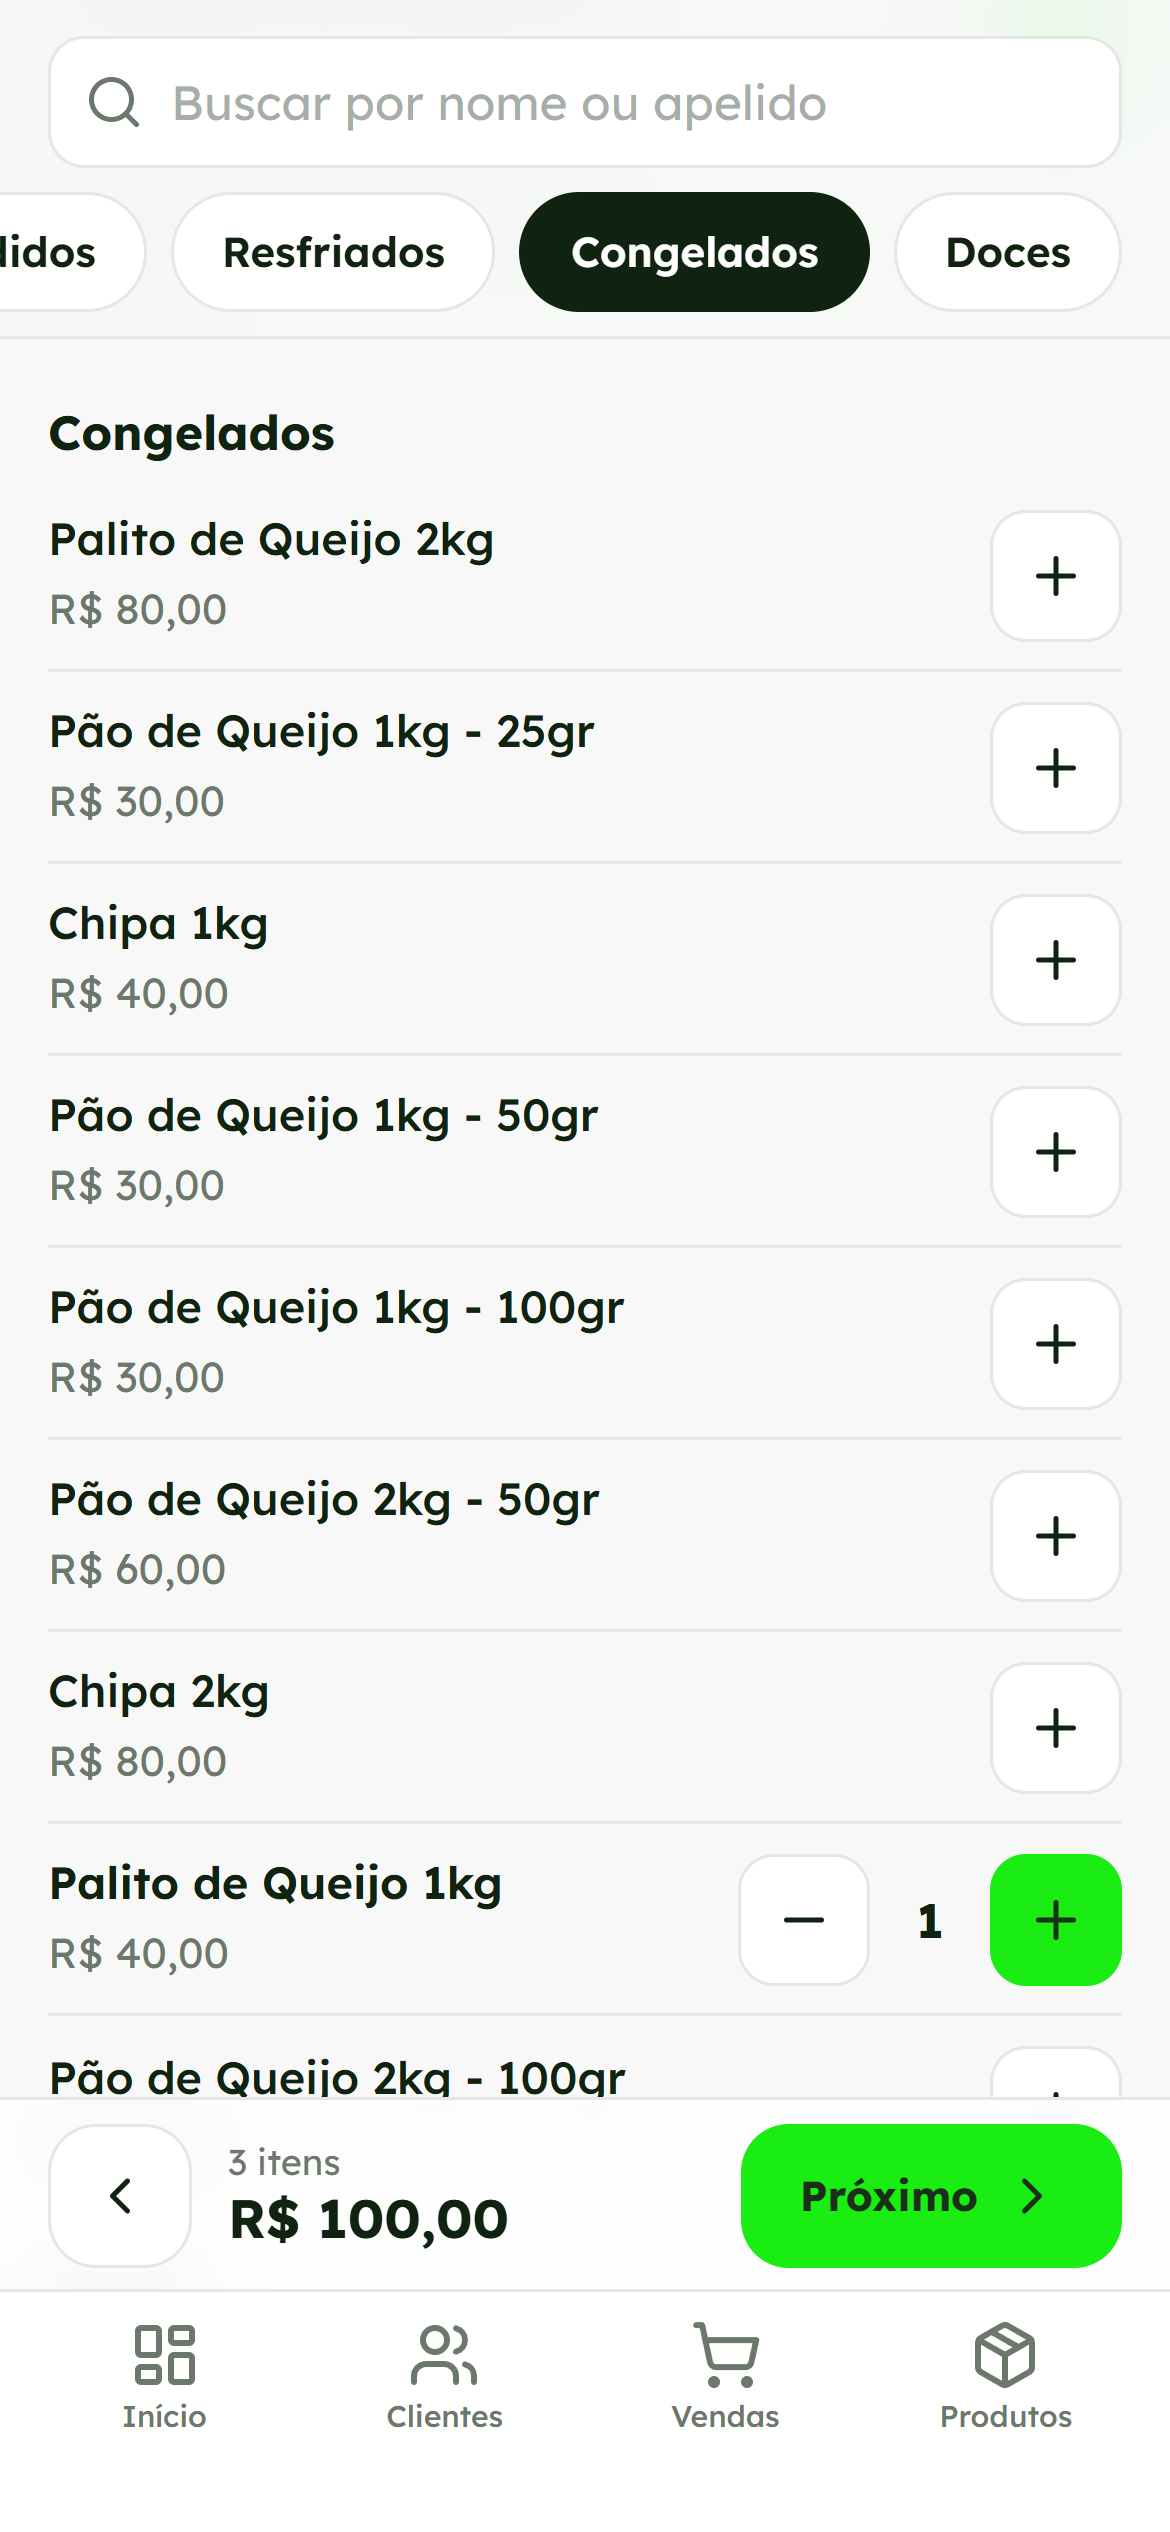
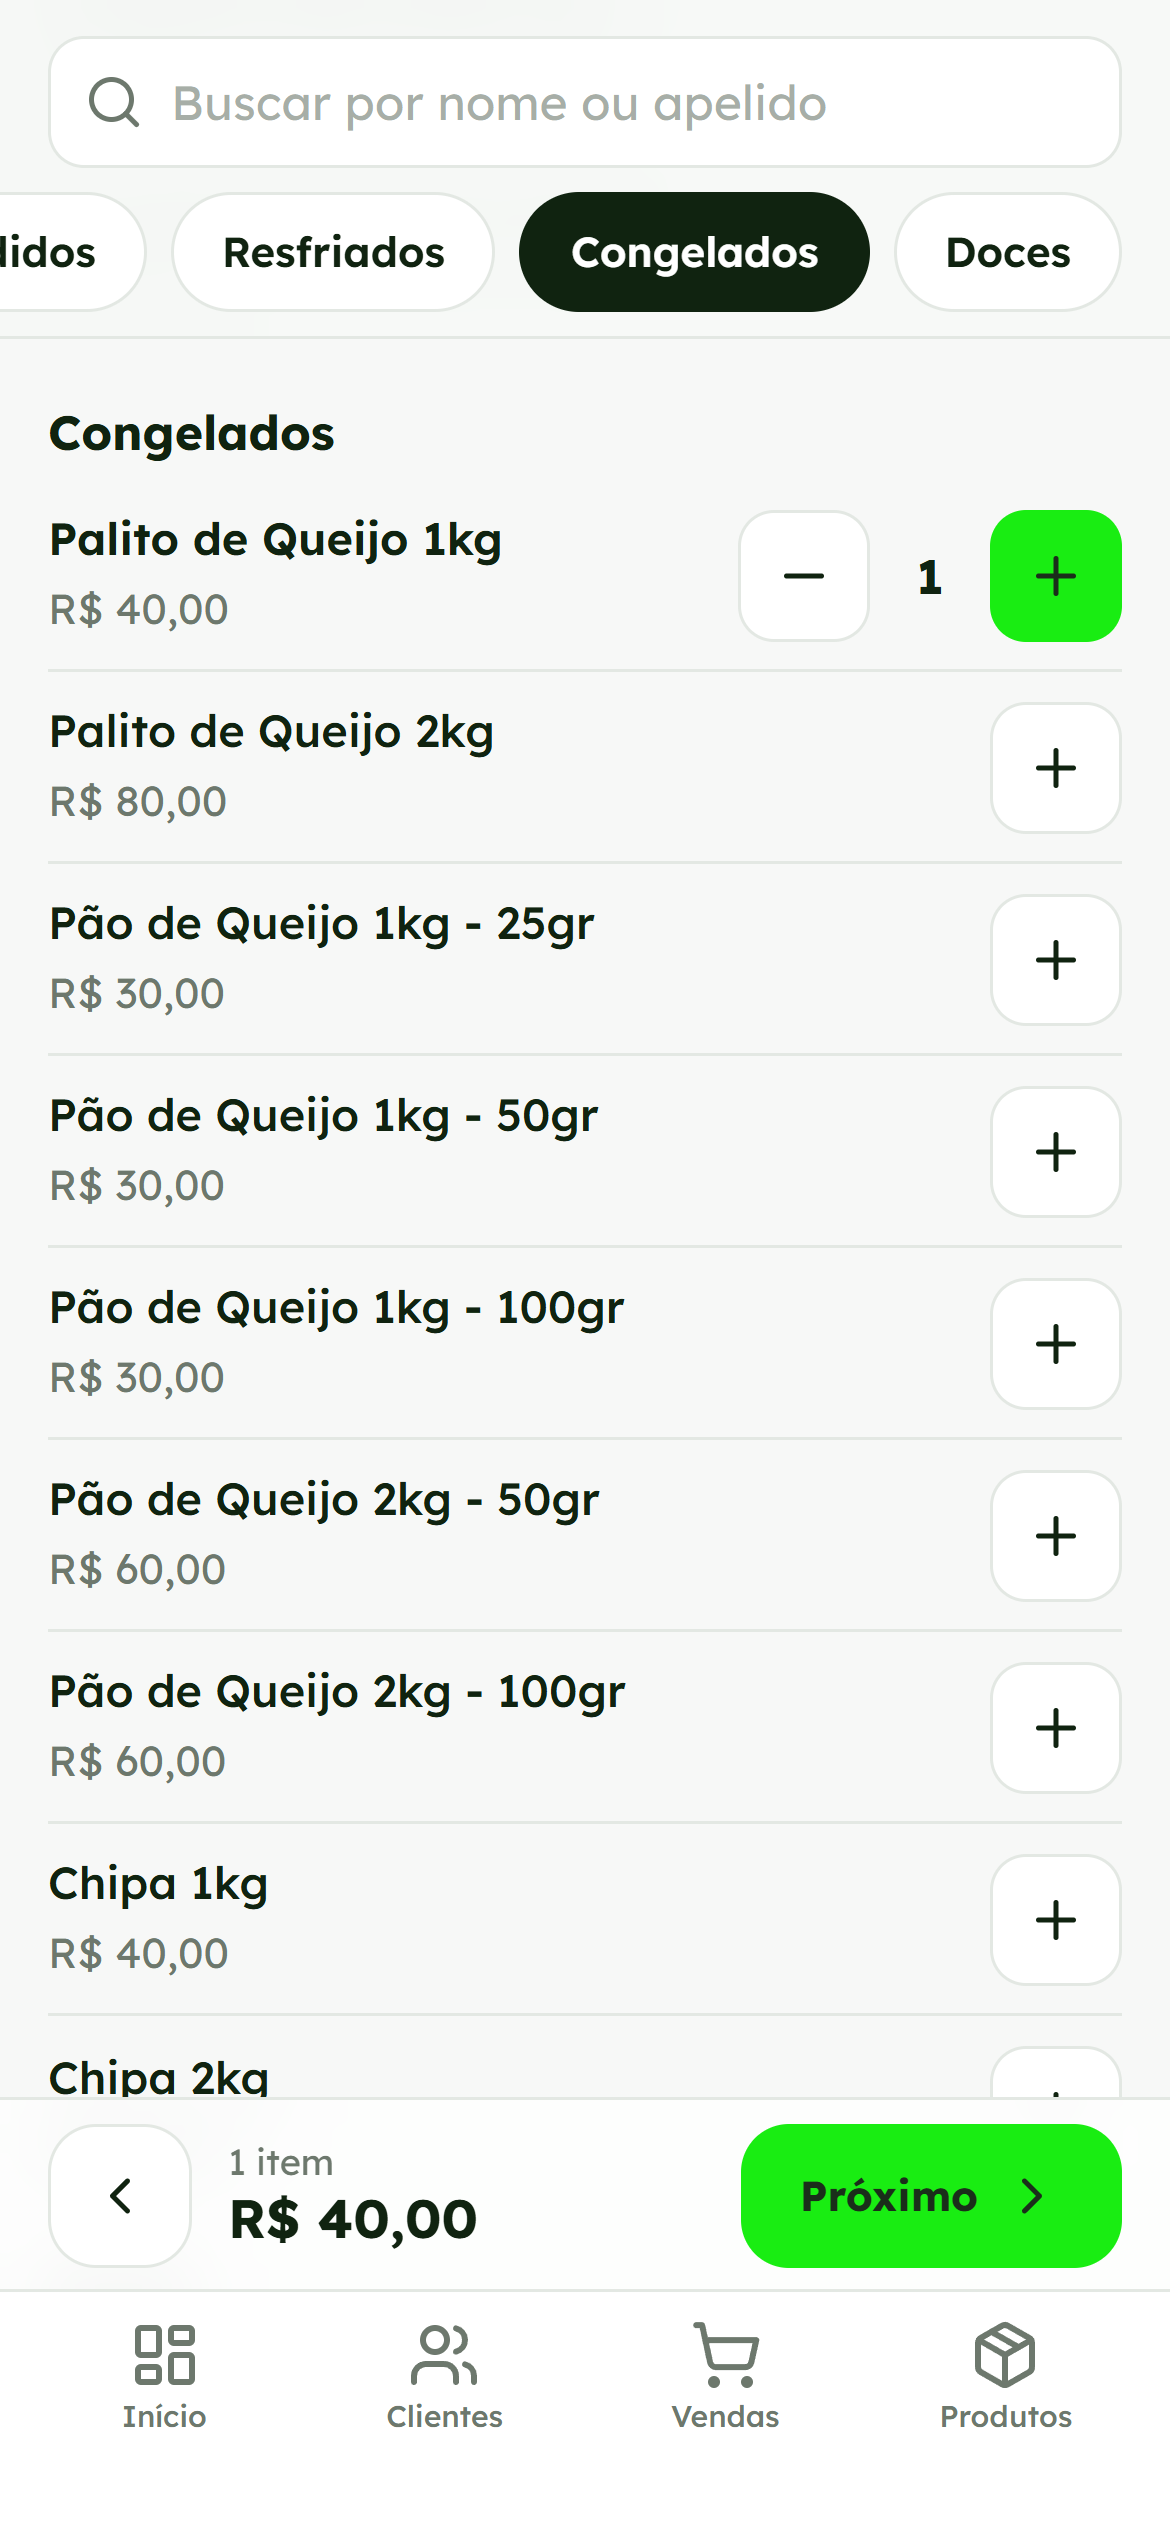
fix(interno): sem aviso "Item removido" no celular + Congelados por produto e tamanho
- Lista do celular: zerar um item no "−" não mostra mais o aviso (a linha
  volta a mostrar só o "+"). Computador segue igual.
- Migration 20261103112736 (backup dump-*-20261103-082422 antes): ordem de
  Congelados na tela Catálogo (e na loja) = Palito 1kg, 2kg; Pão de Queijo
  1kg 25/50/100gr, 2kg 50/100gr; Chipa 1kg, 2kg. Antes havia empates.
- Print de Congelados atualizado.

diff --git a/apps/interno/src/pages/NovaVenda.tsx b/apps/interno/src/pages/NovaVenda.tsx
@@ -230,14 +230,15 @@ export function NovaVenda() {
         setMontando(null)
     }
 
-    const handleUpdateQuantity = (chave: string, delta: number) => {
+    // `avisar: false` = lista do celular (a linha volta a mostrar só o "+").
+    const handleUpdateQuantity = (chave: string, delta: number, { avisar = true }: { avisar?: boolean } = {}) => {
         const item = cart.find((i) => i.chave === chave)
         if (!item) return
 
         const newQty = item.quantidade + delta
         if (newQty <= 0) {
             removeItem(chave)
-            toast.success('Item removido')
+            if (avisar) toast.success('Item removido')
         } else {
             updateQuantity(chave, newQty)
         }
@@ -402,7 +403,7 @@ export function NovaVenda() {
                                         maisVendidos={maisVendidos}
                                         getQuantity={getCartQuantity}
                                         onAdd={(p) => handleAddToCart(p, { avisar: false })}
-                                        onUpdateQuantity={handleUpdateQuantity}
+                                        onUpdateQuantity={(chave, delta) => handleUpdateQuantity(chave, delta, { avisar: false })}
                                         acaoCombo={acaoCombo}
                                     />
                                 </div>
